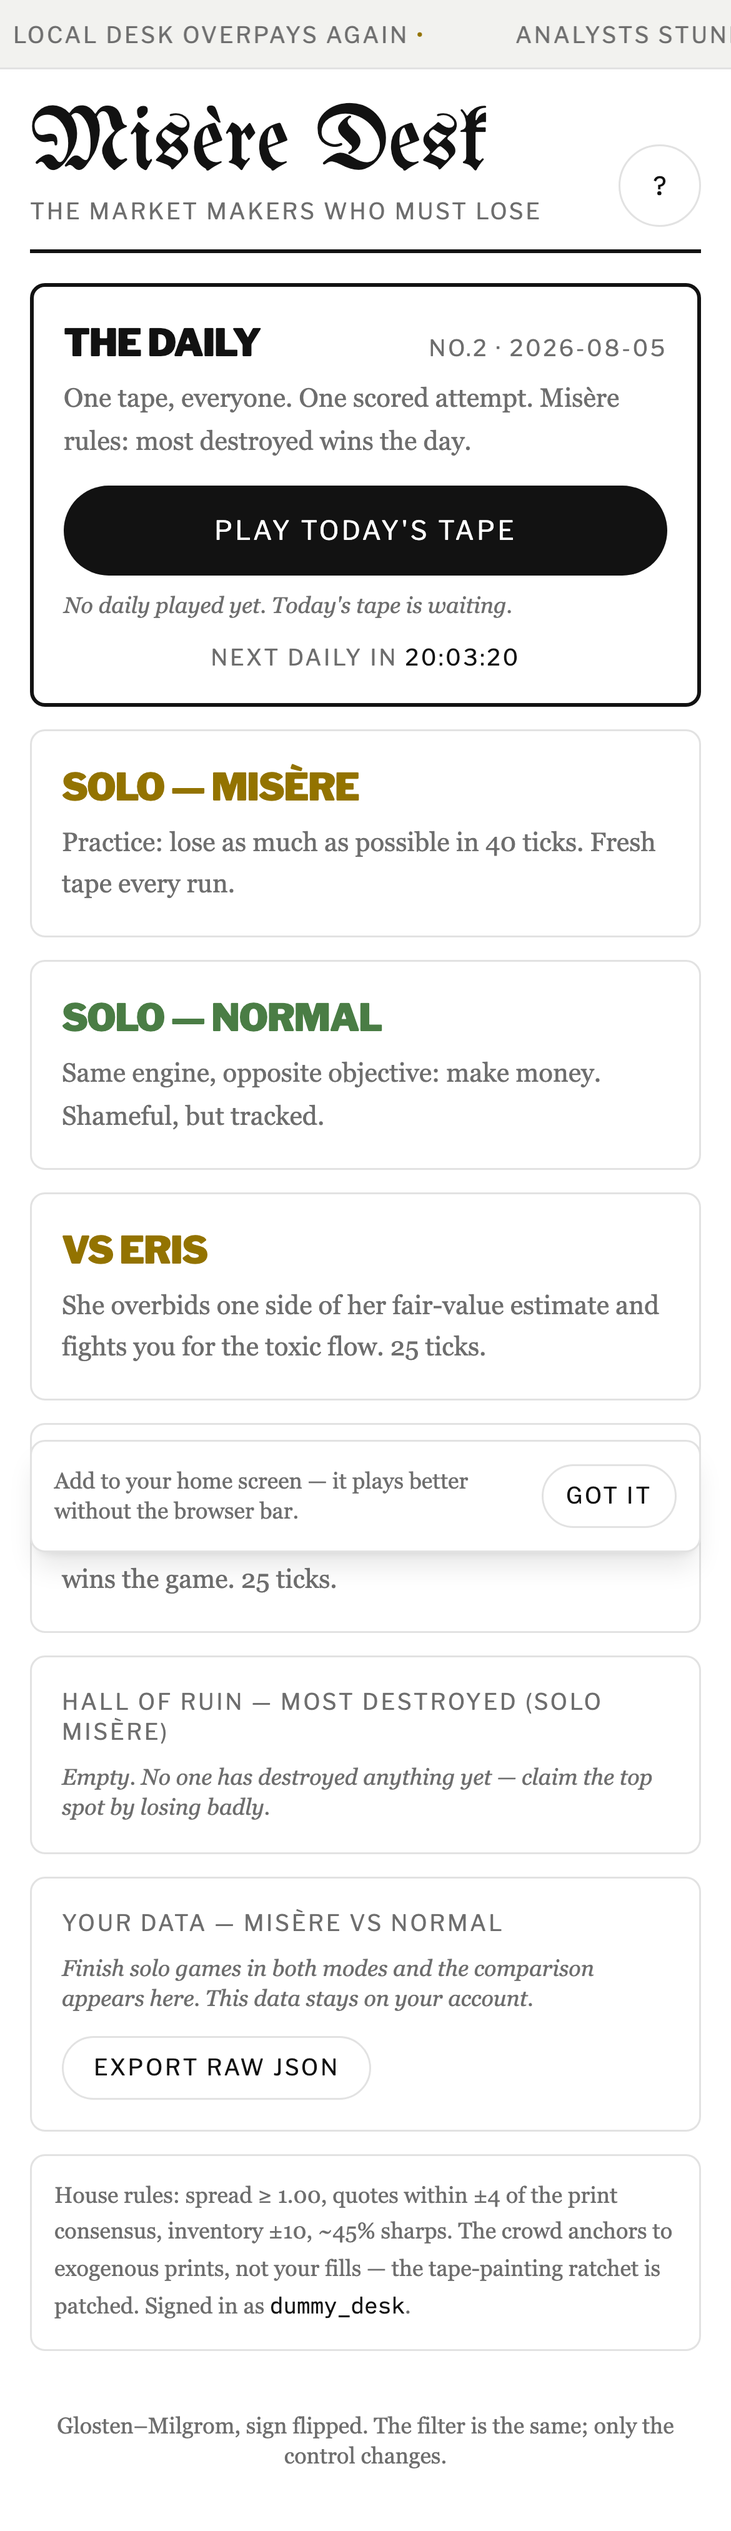
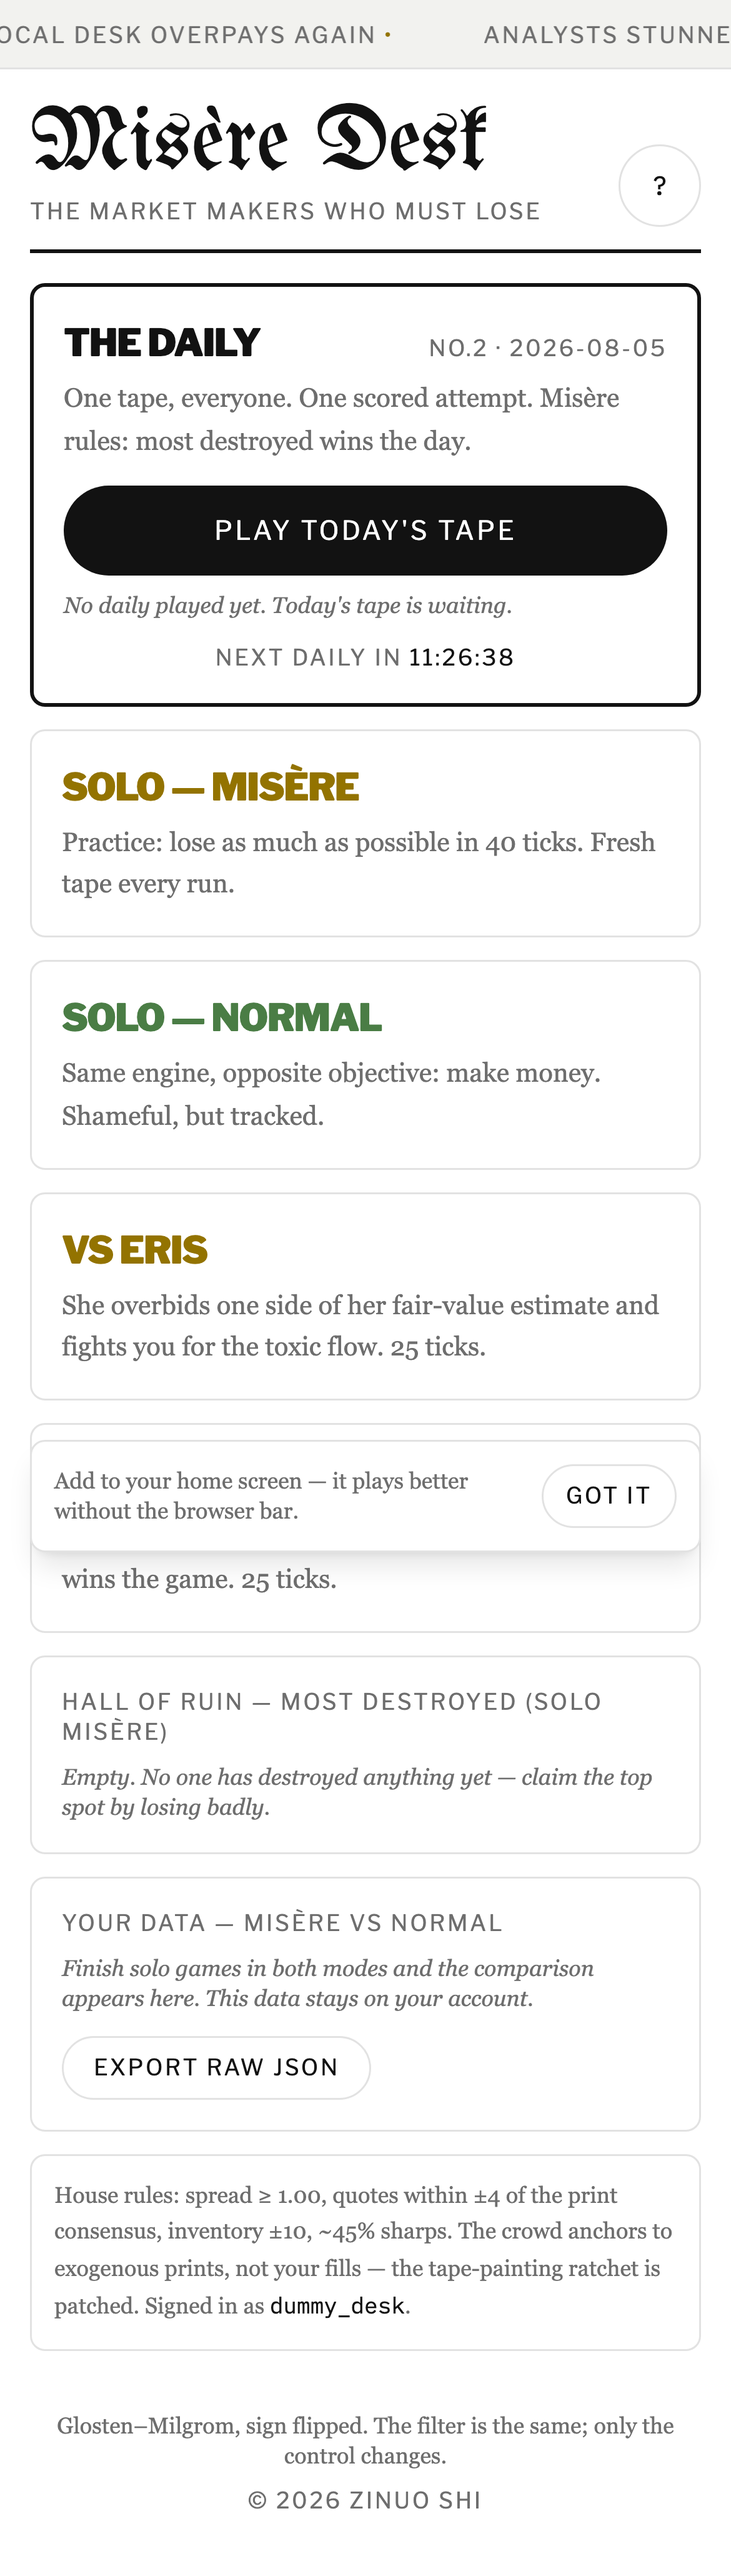
Fix handle claim on plain-http (secure-context detection), harden mobile input, candle-rain personal best, copyright byline, LICENSE, env example, README run notes

diff --git a/src/ui/Gate.tsx b/src/ui/Gate.tsx
@@ -1,10 +1,15 @@
 import { useState } from "react";
 import { claimHandle } from "../data/supabase";
-import { HANDLE_RE, newSecret, saveIdentity, sha256Hex, type Identity } from "../data/identity";
+import {
+  cryptoAvailable, HANDLE_RE, InsecureContextError, newSecret, sanitizeHandle,
+  saveIdentity, sha256Hex, type Identity,
+} from "../data/identity";
 
 export function Gate({ onClaimed }: { onClaimed: (id: Identity) => void }) {
   const [v, setV] = useState("");
-  const [state, setState] = useState<"idle" | "busy" | "taken" | "invalid" | "error">("idle");
+  const [state, setState] = useState<"idle" | "busy" | "taken" | "invalid" | "error" | "insecure">(
+    cryptoAvailable() ? "idle" : "insecure",
+  );
 
   const claim = async () => {
     if (!HANDLE_RE.test(v)) return setState("invalid");
@@ -16,8 +21,8 @@ export function Gate({ onClaimed }: { onClaimed: (id: Identity) => void }) {
       const id = { handle: v, secret };
       saveIdentity(id);
       onClaimed(id);
-    } catch {
-      setState("error");
+    } catch (e) {
+      setState(e instanceof InsecureContextError ? "insecure" : "error");
     }
   };
 
@@ -33,13 +38,21 @@ export function Gate({ onClaimed }: { onClaimed: (id: Identity) => void }) {
       </p>
       <input
         value={v}
-        onChange={(e) => { setV(e.target.value); setState("idle"); }}
+        onChange={(e) => {
+          setV(sanitizeHandle(e.target.value));
+          setState(cryptoAvailable() ? "idle" : "insecure");
+        }}
         onKeyDown={(e) => e.key === "Enter" && claim()}
         placeholder="3-16 chars: letters, digits, _ -"
         data-testid="gate-input"
         className="w-full rounded-md border border-hair bg-paper px-3 py-3 font-mono text-base outline-none focus:border-ink"
         maxLength={16}
-        autoFocus
+        autoCapitalize="none"
+        autoCorrect="off"
+        autoComplete="off"
+        spellCheck={false}
+        inputMode="text"
+        enterKeyHint="go"
       />
       {state === "taken" && (
         <p data-testid="gate-error" className="font-mono text-xs uppercase tracking-widest text-red">
@@ -56,9 +69,15 @@ export function Gate({ onClaimed }: { onClaimed: (id: Identity) => void }) {
           The registry is unreachable. Try again.
         </p>
       )}
+      {state === "insecure" && (
+        <p data-testid="gate-error" className="text-xs leading-relaxed text-red">
+          This page is served over plain http, so the browser withholds the crypto needed to
+          mint your device secret. Open it over https, or on localhost.
+        </p>
+      )}
       <button
         onClick={claim}
-        disabled={state === "busy"}
+        disabled={state === "busy" || state === "insecure"}
         data-testid="gate-claim"
         className="w-full rounded-full bg-ink py-3.5 font-mono text-sm uppercase tracking-widest text-paper disabled:opacity-50"
       >

diff --git a/src/ui/Recap.tsx b/src/ui/Recap.tsx
@@ -9,6 +9,31 @@ import { verdict } from "./verdicts";
 
 const Chart = lazy(() => import("./Chart"));
 
+// Personal-best flourish: red candlestick glyphs rain for two seconds.
+// prefers-reduced-motion is honoured in CSS (.candle is display:none there).
+function CandleRain() {
+  const drops = Array.from({ length: 28 }, (_, i) => ({
+    left: (i * 37) % 100,
+    delay: (i % 7) * 0.12,
+    dur: 1.1 + ((i * 13) % 7) / 10,
+  }));
+  return (
+    <div data-testid="candle-rain" aria-hidden>
+      {drops.map((d, i) => (
+        <span
+          key={i}
+          className="candle"
+          style={{ left: `${d.left}%`, animationDelay: `${d.delay}s`, animationDuration: `${d.dur}s` }}
+        >
+          ┃
+        </span>
+      ))}
+    </div>
+  );
+}
+
+const BEST_KEY = "md:best:misere";
+
 function DailyShareBlock({ result, dec, onStats }: {
   result: DailyResult; dec: Decomposition; onStats: () => void;
 }) {
@@ -65,8 +90,21 @@ export function Recap({ s, mode, dailyShare, onStats }: {
   );
   const achieved = score > 0;
 
+  // new personal best in misère => rain candles for two seconds
+  const [rain, setRain] = useState(false);
+  useEffect(() => {
+    if (!misere || score <= 0) return;
+    const prev = Number(localStorage.getItem(BEST_KEY) ?? "-Infinity");
+    if (!(score > prev)) return;
+    localStorage.setItem(BEST_KEY, String(score));
+    setRain(true);
+    const id = setTimeout(() => setRain(false), 2000);
+    return () => clearTimeout(id);
+  }, [misere, score]);
+
   return (
     <div className="flex flex-col gap-4">
+      {rain && <CandleRain />}
       <div data-testid="verdict" className="relative overflow-hidden rounded-lg border border-hair bg-panel">
         <div className="newsprint max-h-56">
           <img src={v.img} alt="" width={v.w} height={v.h} />

diff --git a/src/data/identity.ts b/src/data/identity.ts
@@ -17,14 +17,32 @@ export const getIdentity = (): Identity | null => {
 export const saveIdentity = (id: Identity) =>
   localStorage.setItem(KEY, JSON.stringify(id));
 
+// crypto.subtle exists only in a secure context (https, or localhost). Over plain
+// http on a LAN address it is undefined, which used to surface as a misleading
+// "registry unreachable". Detect it and say the real thing.
+export const cryptoAvailable = () =>
+  typeof crypto !== "undefined" && typeof crypto.subtle !== "undefined";
+
+export class InsecureContextError extends Error {
+  constructor() {
+    super("secure context required");
+    this.name = "InsecureContextError";
+  }
+}
+
 export const newSecret = (): string => {
   const b = crypto.getRandomValues(new Uint8Array(32));
   return Array.from(b, (x) => x.toString(16).padStart(2, "0")).join("");
 };
 
 export async function sha256Hex(s: string): Promise<string> {
+  if (!cryptoAvailable()) throw new InsecureContextError();
   const d = await crypto.subtle.digest("SHA-256", new TextEncoder().encode(s));
   return Array.from(new Uint8Array(d), (x) => x.toString(16).padStart(2, "0")).join("");
 }
+
+// iOS keyboards add autocapitalised letters, smart punctuation and trailing
+// spaces. Strip anything the handle grammar does not allow before validating.
+export const sanitizeHandle = (s: string) => s.replace(/[^a-zA-Z0-9_-]/g, "").slice(0, 16);
 
 export const HANDLE_RE = /^[a-zA-Z0-9_-]{3,16}$/;

diff --git a/src/index.css b/src/index.css
@@ -92,6 +92,23 @@ body {
   transform-origin: top;
 }
 
+/* candle rain — personal-best flourish on the misère verdict, 2s then gone */
+@keyframes candlefall {
+  from { transform: translateY(-10vh) rotate(0deg); opacity: 1; }
+  to { transform: translateY(105vh) rotate(20deg); opacity: 0; }
+}
+.candle {
+  position: fixed;
+  top: 0;
+  color: var(--red);
+  font-family: var(--font-mono);
+  font-size: 20px;
+  line-height: 1;
+  animation: candlefall linear forwards;
+  z-index: 60;
+  pointer-events: none;
+}
+
 /* marquee ticker */
 @keyframes marquee {
   from { transform: translateX(0); }
@@ -105,4 +122,5 @@ body {
 @media (prefers-reduced-motion: reduce) {
   .marquee-track { animation: none; }
   .flip-new { animation: none; }
+  .candle { display: none; }
 }

diff --git a/src/test/daily.spec.ts b/src/test/daily.spec.ts
@@ -119,3 +119,14 @@ describe("verdict ladder", () => {
     expect(verdict("misere", 0, dec({ nFills: 0 })).stamp).toBeUndefined();
   });
 });
+
+describe("handle sanitizing (mobile keyboards)", () => {
+  it("strips what iOS adds and keeps a valid handle valid", async () => {
+    const { sanitizeHandle, HANDLE_RE } = await import("../data/identity");
+    expect(sanitizeHandle("Zinuo Shi ")).toBe("ZinuoShi");
+    expect(sanitizeHandle("desk’s—name.")).toBe("desksname"); // smart quote, em dash, period
+    expect(HANDLE_RE.test(sanitizeHandle("Zinuo Shi "))).toBe(true);
+    expect(sanitizeHandle("a".repeat(30))).toHaveLength(16);
+    expect(sanitizeHandle("keep_me-99")).toBe("keep_me-99");
+  });
+});

diff --git a/src/App.tsx b/src/App.tsx
@@ -195,7 +195,10 @@ export default function App() {
         )}
 
         <footer className="pb-4 pt-8 text-center text-xs text-muted">
-          Glosten&ndash;Milgrom, sign flipped. The filter is the same; only the control changes.
+          <p>Glosten&ndash;Milgrom, sign flipped. The filter is the same; only the control changes.</p>
+          <p className="mt-2 font-mono uppercase tracking-widest">
+            &copy; {new Date().getUTCFullYear()} Zinuo Shi
+          </p>
         </footer>
       </div>
 

diff --git a/src/data/daily.ts b/src/data/daily.ts
@@ -94,4 +94,9 @@ export function shareCard(
   ].join("\n");
 }
 
-export const SITE_URL = "https://misere-desk.vercel.app";
+// The share card's last line. Uses the real origin once deployed, so the card
+// always points at wherever this build is actually served from.
+export const SITE_URL =
+  typeof window !== "undefined" && window.location.origin.startsWith("http")
+    ? window.location.origin
+    : "https://misere.vercel.app";

diff --git a/README.md b/README.md
@@ -27,6 +27,27 @@ Telemetry per game: pnl, sharp edge, noise edge, inventory pnl, fills, sharp fil
 avg spread, avg skew, duration. Decomposition identity `pnl = sharp + noise + inventory`
 is enforced by unit test and dev-build runtime assertion.
 
+## Running it
+
+```bash
+npm install
+cp .env.example .env.local   # fill in a Supabase project, or leave it out entirely
+npm run dev
+```
+
+Without Supabase credentials the app runs on a localStorage fallback registry with
+identical call shapes — handles, leaderboard and telemetry are per-browser. Add the
+two env vars and run `supabase/migrations/0001_init.sql` in the project's SQL editor
+to go live; no code changes.
+
+Note: claiming a handle needs `crypto.subtle`, which browsers expose only in a secure
+context. Use `localhost` or https — a plain-http LAN address will refuse the claim and
+say so.
+
+Scripts: `test` (Vitest), `dummy` (headless dummy player over every mode), `calibrate`
+(1,000-game tier-band calibration), `shots` (Playwright screenshots), `e2e` (all-mode
+smoke through the real UI).
+
 ## Stack
 
 Vite + React 18 + TypeScript + Tailwind. Pure seeded engine (`src/engine/`, zero React
